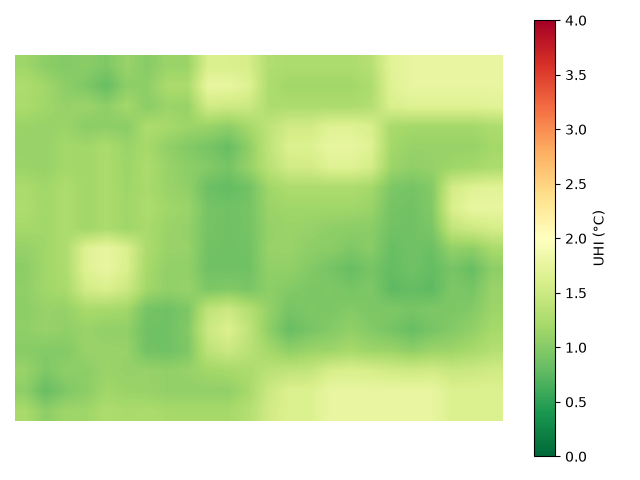
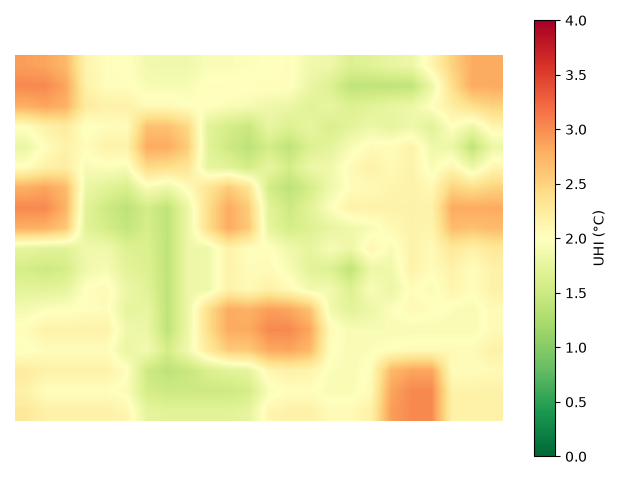
Changed tile types

diff --git a/PythonProject2/Info.py b/PythonProject2/Info.py
@@ -2,26 +2,40 @@ type_effect = {
     "built_low": 0,
     "built_high": 0,
     "trees": 0.5,
-    "shrubs": 0.3,
     "low_veg": 0.2,
     "water": 0.3,
     "farmland": 0.2,
-    "bare_soil": 0
+    "bare_soil": 0,
+    "built_low_char": 0,
+    "built_high_char": 0,
+    "appartment_char": 0,
+    "canals_char": 0.3,
+    "lakes_char": 0.3,
+    "parks_char": 0.3,
+    "forests_char": 0.5,
+    "farmland_char": 0.2
 }
 
 type_roughness = {
     "built_low": 1,
     "built_high": 2,
     "trees": 1,
-    "shrubs": 0.5,
     "low_veg": 0.1,
     "water": 0.005,
     "farmland": 0.25,
-    "bare_soil": 0.005
+    "bare_soil": 0.005,
+    "built_low_char": 1,
+    "built_high_char": 2,
+    "appartment_char": 2,
+    "canals_char": 0.005,
+    "lakes_char": 0.005,
+    "parks_char": 0.5,
+    "forests_char": 1,
+    "farmland_char": 0.25
 }
 
 grid_size = (6, 8)
 
-types = ("built_low", "built_high", "trees", "shrubs", "low_veg", "water", "farmland", "bare_soil") # string list
+types = ("built_low", "built_high", "trees", "low_veg", "water", "farmland", "bare_soil", "built_low_char", "built_high_char", "appartment_char", "canals_char", "lakes_char", "parks_char", "forests_char", "farmland_char") # string list
 
 subtile_amount = 9 # 2x2 within tile

diff --git a/PythonProject2/Calculator.py b/PythonProject2/Calculator.py
@@ -56,16 +56,22 @@ class Calculator:
         side_tiles = [] # Tiles to the sides of main tile
         self.fake_tiles = np.ones(shape=(int(math.sqrt(subtile_amount)) * grid_size[0] + 2, int(math.sqrt(subtile_amount)) * grid_size[1] + 2))
         fake_tiles = self.city.fake_tiles
-        print(fake_tiles.shape)
         type_coverage30m = { # Temp empty version
             "built_low": 0,
             "built_high": 0,
             "trees": 0,
-            "shrubs": 0,
             "low_veg": 0,
             "water": 0,
             "farmland": 0,
-            "bare_soil": 0
+            "bare_soil": 0,
+            "built_low_char": 0,
+            "built_high_char": 0,
+            "appartment_char": 0,
+            "canals_char": 0,
+            "lakes_char": 0,
+            "parks_char": 0,
+            "forests_char": 0,
+            "farmland_char": 0
         }
 
         # Gather all the types corner- and side-connected neighbours

diff --git a/PythonProject2/SubTile.py b/PythonProject2/SubTile.py
@@ -10,10 +10,10 @@ class Subtile:
 
         self.population = 0
         self.soil_sealing = 0
-        if type == "built_low": 
+        if type == "built_low" or type == "built_low_char": 
             self.population = 7
             self.soil_sealing = 0.128
-        if type == "built_high": 
+        if type == "built_high" or type == "built_high_char" or type == "appartment_char": 
             self.population = 10
             self.soil_sealing = 0.128
 

diff --git a/PythonProject2/main.py b/PythonProject2/main.py
@@ -91,10 +91,9 @@ def main():
                 send_wind_uhi_death(url_wind, 0)
                 send_wind_uhi_death(url_uhi, 0)
 
-            if tile_type <= 7:  # if not a character
+            if tile_type <= 6:  # if not a character
                 tile_manager.update_tile(tile_id, tile_type)
             else:  # if character
-                tile_type -= 8
                 tile_manager.update_tile(tile_id, tile_type)
                 player_id = tile_id # Update player position
 

diff --git a/PythonProject2/TileManager.py b/PythonProject2/TileManager.py
@@ -11,7 +11,7 @@ class TileManager:
         self.tiles = np.empty(shape=grid_size, dtype=object)
         for i in range(grid_size[0]):
             for j in range(grid_size[1]):
-                self.tiles[i, j] = Tile((i, j), random.randint(0, 7)) # Place random tile in each position
+                self.tiles[i, j] = Tile((i, j), random.randint(0, 6)) # Place random tile in each position
 
 
     def update_tile(self, position, type):